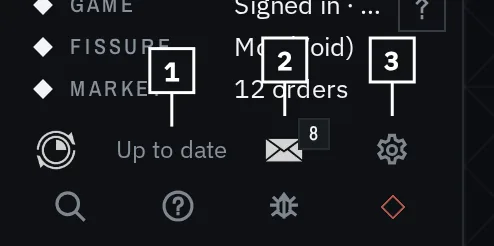
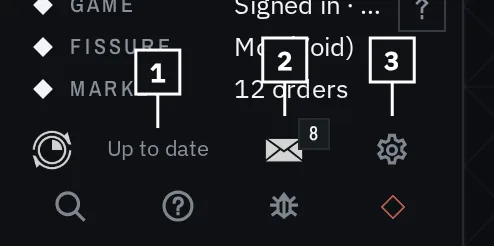
Sidebar foot: Sync's state word fits its two cells
The longest word ran 10 px into the cell's right padding at every
window size. The cell now has no right padding, a 6 px gap and the word
at 11 px. The sidebar's help pictures were taken again.

Changed region(s): [[0.2733, 0.1707, 0.3947, 0.5122], [0.2126, 0.5691, 0.4555, 0.6545], [0.0607, 0.5122, 0.1518, 0.7114]]

diff --git a/src/App.svelte b/src/App.svelte
@@ -3400,10 +3400,10 @@
   .tools.grid :global(.tool .lbls), .tools.grid :global(.tool .lbl) { display: none; }
   /* Sync takes two cells, so its state ("Waiting…", "Up to date", "Not synced") reads beside its
      picture without pointing at it; its name is the picture and the tooltip. */
-  .tools.grid > :global(.sync) { grid-column: span 2; justify-content: flex-start; gap: 8px; padding: 0 10px; }
+  .tools.grid > :global(.sync) { grid-column: span 2; justify-content: flex-start; gap: 6px; padding: 0 0 0 8px; }
   .tools.grid :global(.sync .lbls.aside) { display: inline-grid; margin-left: 0; }
   /* Two cells are narrow for the register's capitals: the state in plain words there. */
-  .tools.grid :global(.sync .lbls.aside) { font-family: var(--face-text); font-size: 12px; letter-spacing: 0; text-transform: none; }
+  .tools.grid :global(.sync .lbls.aside) { font-family: var(--face-text); font-size: 11px; letter-spacing: 0; text-transform: none; }
   .tools.grid :global(.tool.on) { box-shadow: inset 0 -2px 0 var(--platinum); }
   .tools.grid .bell .count { position: absolute; top: -2px; right: 4px; margin: 0; }
   .tools.grid .bell.paused::after { left: 50%; }
